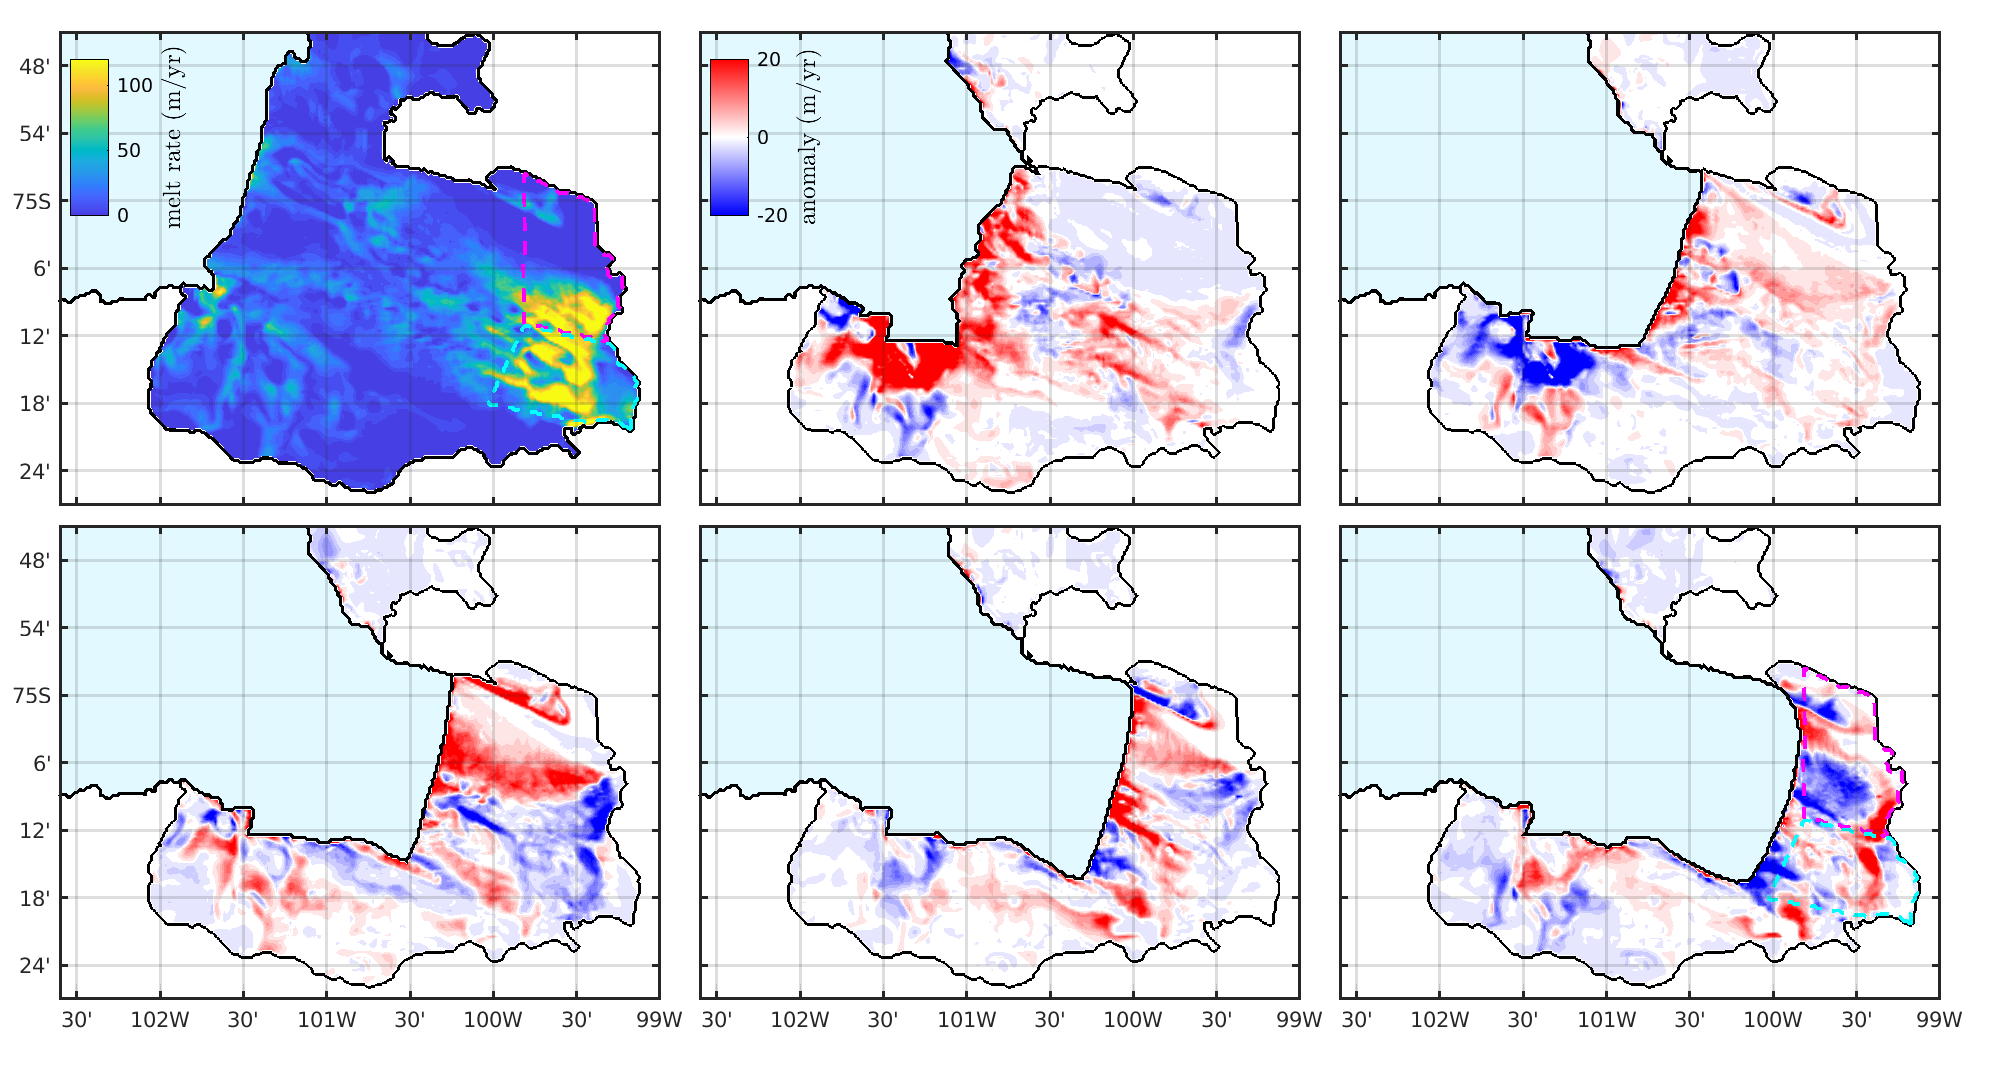
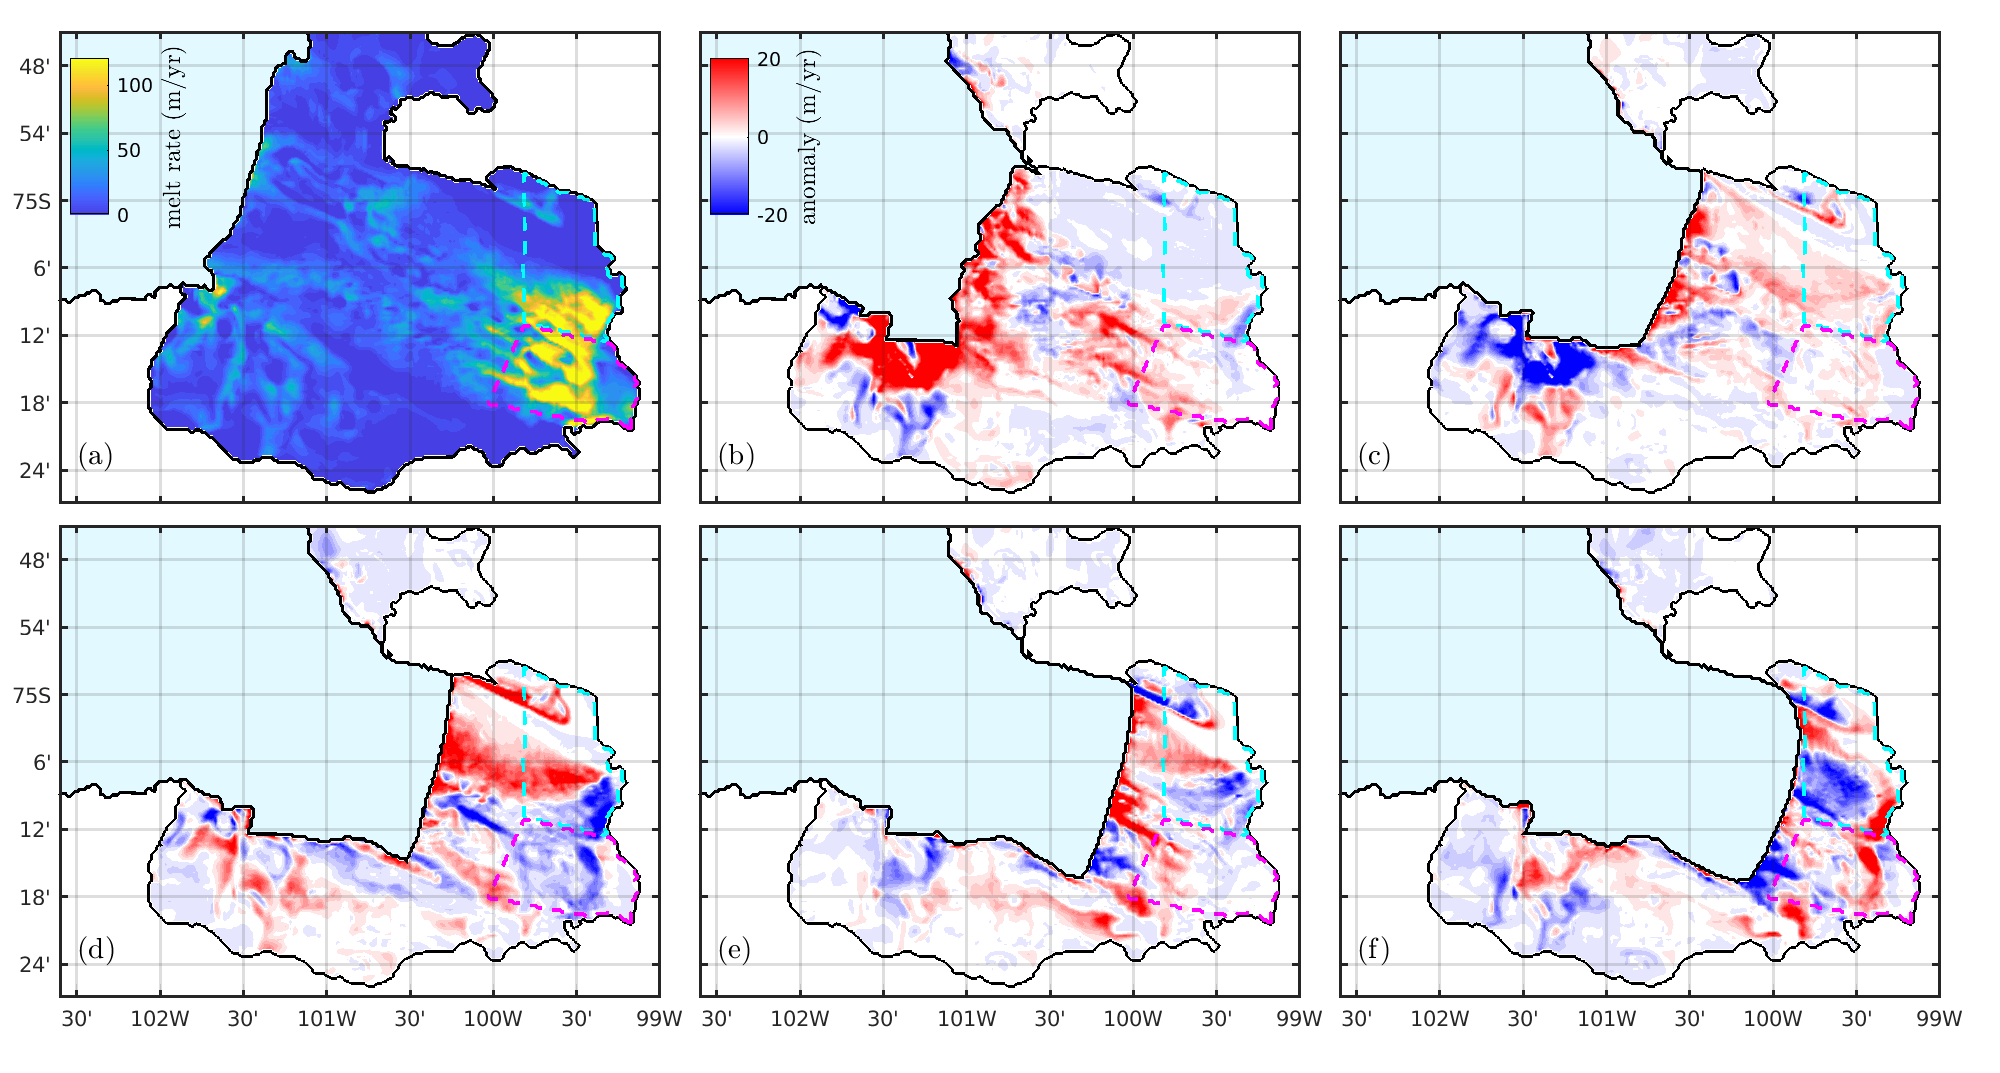
small updates figure 12

diff --git a/make_figures/make_figure12.m b/make_figures/make_figure12.m
@@ -122,8 +122,9 @@ p = ceil(i/ncols); %index in y directio
 positions(:,i) = [startx + (q-1)*gapx + (q-1)*width, starty - p*height - (p-1)*gapy, width, height];
 end
 cmap = lighter_blue_parula(100,0.1);
+labels = ["(a)", "(b)", "(c)", "(d)", "(e)", "(f)"];
 
-
+%loop over runs
 for q = 1:sz
 icetopo = cell2mat(topo_scenarios(q));
 melt = cell2mat(melt_scenarios(q));
@@ -207,21 +208,23 @@ in1 = inpolygon(XXns',YYns', a1,b1);
 in2 = inpolygon(XXns',YYns', a2,b2);
 idx1 = (icetopo < 0) & in1;
 idx2 = (icetopo < 0) & in2;
-if ((q == 1) || (q == 6))
+%if ((q == 1) || (q == 6))
 melt_copy = melt_diff_sat;
 melt_copy(idx1) = 1;
 melt_copy(~idx1) =0;
-contour(lambda,phi,melt_copy',[1,1], '--', 'linewidth', 1.75, 'linecolor', 'm')
+contour(lambda,phi,melt_copy',[1,1], '--', 'linewidth', 1.75, 'linecolor', 'c')
 melt_copy = melt_diff_sat;
 melt_copy(idx2) = 1;
 melt_copy(~idx2) =0;
-contour(lambda,phi,melt_copy',[1,1], '--', 'linewidth', 1.75, 'linecolor', 'c')
+contour(lambda,phi,melt_copy',[1,1], '--', 'linewidth', 1.75, 'linecolor', 'm')
+%end
 
-end
-
+% add label
+txt(q) = text(-102.5,-75.38, labels(q), 'FontSize', 14, 'Interpreter', 'latex');
 
 end %end loop over runs
 fig = gcf; fig.Position(3:4) = [1280, 687.333];
+
 
 %
 % Save
